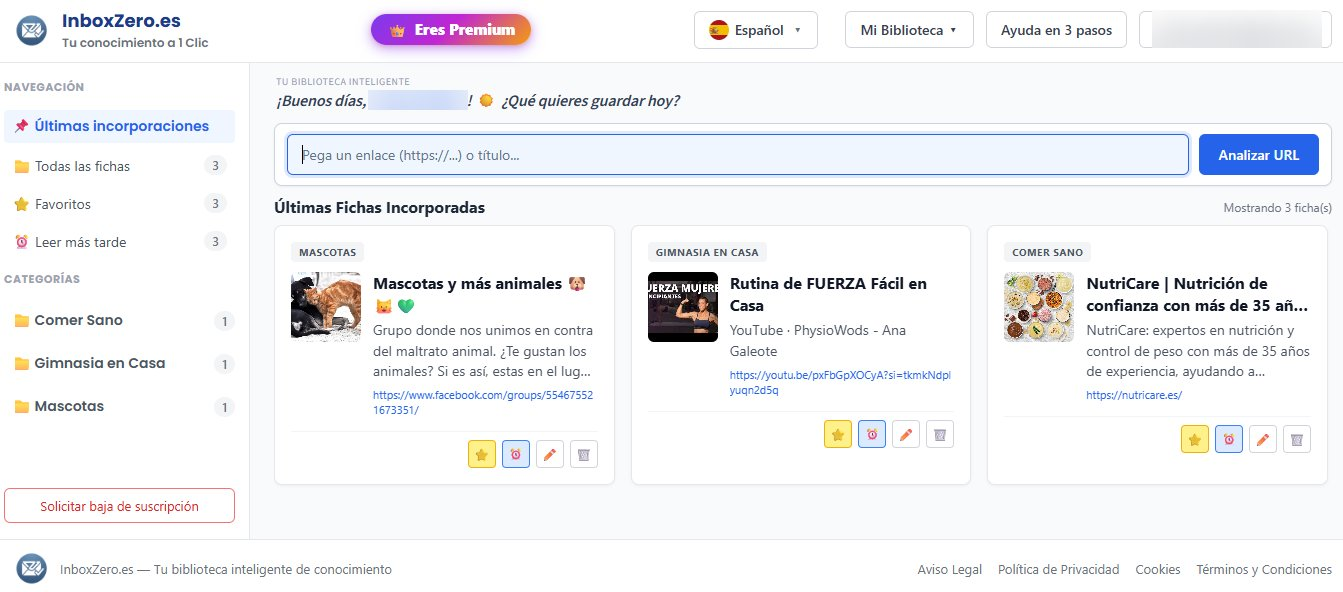
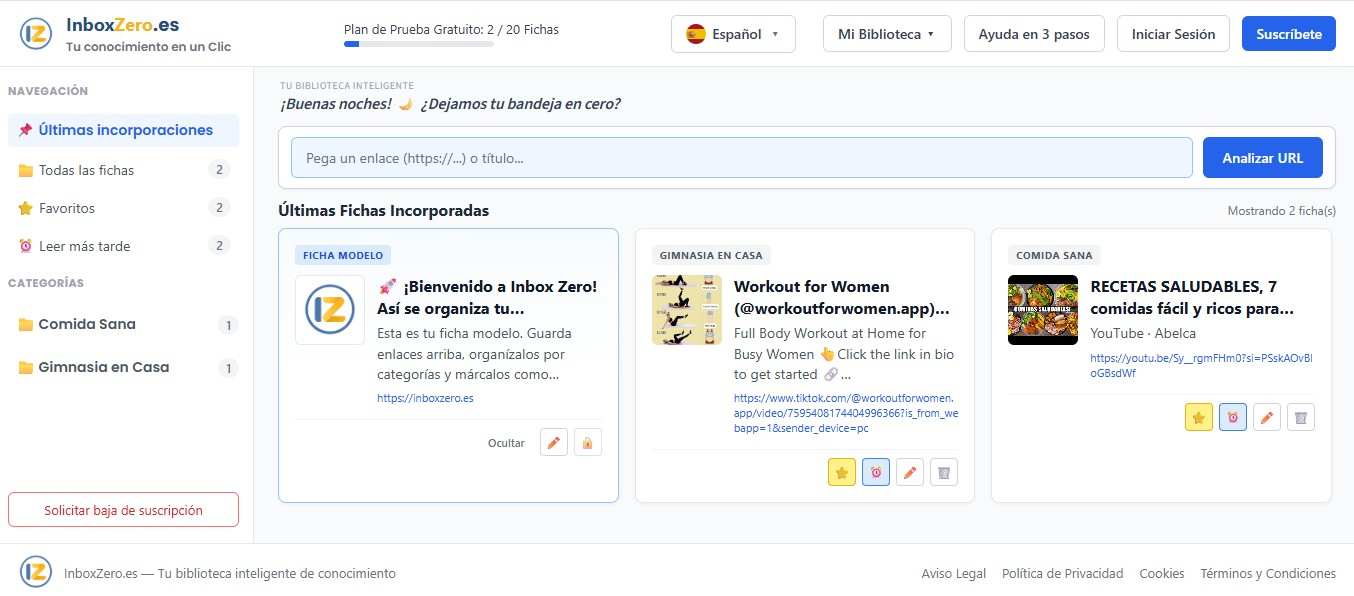
landing: imagenes demo en 5 idiomas + fix tipografia InboxZero en titular

diff --git a/landing.html b/landing.html
@@ -400,6 +400,12 @@
     .shot-frame { height: auto; }
     .shot-frame img { height: auto; object-fit: contain; }
   }
+  .demo img.demo-img { display: none; }
+  html[lang="es"] .demo img.demo-img.lang-es,
+  html[lang="en"] .demo img.demo-img.lang-en,
+  html[lang="fr"] .demo img.demo-img.lang-fr,
+  html[lang="de"] .demo img.demo-img.lang-de,
+  html[lang="pt"] .demo img.demo-img.lang-pt { display: block; }
 
   /* ---------- PRECIOS ---------- */
   .precios { background: var(--crudo); }
@@ -824,15 +830,31 @@
     <h2 data-i18n="landing.demo.title">Así se ve tu biblioteca</h2>
     <p class="sub-center" data-i18n="landing.demo.subtitle">Enlaces, redes sociales y artículos, organizados y listos para consultar</p>
     <div class="demo-mock">
-      <img src="images/demo/dashboard-es.jpg" alt="Dashboard real de InboxZero con fichas guardadas">
+      <img src="images/demo/dashboard-es.jpg" class="demo-img lang-es" alt="Dashboard real de InboxZero con fichas guardadas">
+      <img src="images/demo/dashboard-en.jpg" class="demo-img lang-en" alt="Dashboard real de InboxZero con fichas guardadas">
+      <img src="images/demo/dashboard-fr.jpg" class="demo-img lang-fr" alt="Dashboard real de InboxZero con fichas guardadas">
+      <img src="images/demo/dashboard-de.jpg" class="demo-img lang-de" alt="Dashboard real de InboxZero con fichas guardadas">
+      <img src="images/demo/dashboard-pt.jpg" class="demo-img lang-pt" alt="Dashboard real de InboxZero con fichas guardadas">
     </div>
     <div class="demo-support">
       <div class="demo-support-card">
-        <div class="shot-frame"><img src="images/demo/extraction-es.jpg" alt="Extracción automática de una ficha en InboxZero"></div>
+        <div class="shot-frame">
+          <img src="images/demo/extraction-es.jpg" class="demo-img lang-es" alt="Extracción automática de una ficha en InboxZero">
+          <img src="images/demo/extraction-en.jpg" class="demo-img lang-en" alt="Extracción automática de una ficha en InboxZero">
+          <img src="images/demo/extraction-fr.jpg" class="demo-img lang-fr" alt="Extracción automática de una ficha en InboxZero">
+          <img src="images/demo/extraction-de.jpg" class="demo-img lang-de" alt="Extracción automática de una ficha en InboxZero">
+          <img src="images/demo/extraction-pt.jpg" class="demo-img lang-pt" alt="Extracción automática de una ficha en InboxZero">
+        </div>
         <div class="cap" data-i18n="landing.demo.extractionNote">Título, descripción e imagen, extraídos solos</div>
       </div>
       <div class="demo-support-card">
-        <div class="shot-frame contain"><img src="images/demo/languages-es.jpg" alt="Selector de idiomas de InboxZero con banderas"></div>
+        <div class="shot-frame contain">
+          <img src="images/demo/languages-es.jpg" class="demo-img lang-es" alt="Selector de idiomas de InboxZero con banderas">
+          <img src="images/demo/languages-en.jpg" class="demo-img lang-en" alt="Selector de idiomas de InboxZero con banderas">
+          <img src="images/demo/languages-fr.jpg" class="demo-img lang-fr" alt="Selector de idiomas de InboxZero con banderas">
+          <img src="images/demo/languages-de.jpg" class="demo-img lang-de" alt="Selector de idiomas de InboxZero con banderas">
+          <img src="images/demo/languages-pt.jpg" class="demo-img lang-pt" alt="Selector de idiomas de InboxZero con banderas">
+        </div>
         <div class="cap" data-i18n="landing.demo.languagesNote">Disponible en 5 idiomas</div>
       </div>
     </div>
